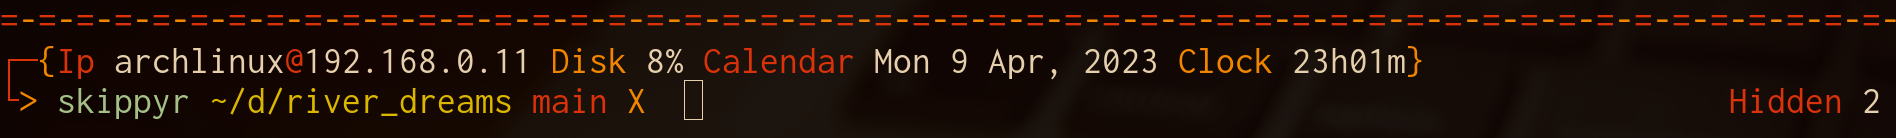
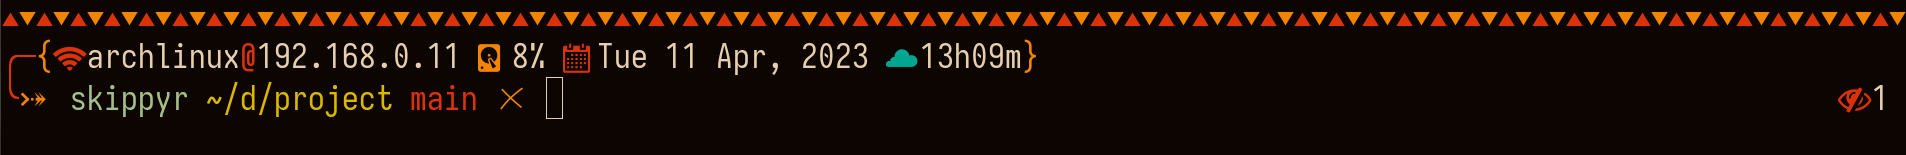
docs: update preview

diff --git a/README.md b/README.md
@@ -2,18 +2,24 @@
 
 ## Introduction
 
-River Dreams is a fast multiline ZSH theme written mostly in C, specially designed for programmers and hackers.
+River Dreams is a fast multi line ZSH theme written mostly in C, specially designed for programmers and hackers.
 
 ![](images/image_0.png)
 ![](images/image_1.png)
+![](images/image_2.png)
+![](images/image_3.png)
+![](images/image_4.png)
 
-The philosophy behind River Dreams is to create a confortable and professional environment for people that want to spend most of their time in the terminal, by grouping most of the information that you would normally find like in a system's bar in it.
 
-Like this, it reduces your need of a graphical environment and becomes a great addition for when you are using a window manager or cannot have access to your graphical environment, like when doing a maintanence.
+> In the images, River Dreams was used on the [Kitty](https://github.com/kovidgoyal/kitty) terminal with the [Flamerial](https://github.com/skippyr/flamerial) color schemes and [Iosevka](https://github.com/be5invis/Iosevka) ([stylistic set `ss08`](https://github.com/be5invis/Iosevka/blob/main/doc/stylistic-sets.md)) font. Noto Fonts and Symbols Nerd Font were used as fallback fonts.
+
+The philosophy behind River Dreams is to create a comfortable and professional environment for people that want to spend most of their time in the terminal, by grouping most of the information that you would normally find in a system's bar in it.
+
+Like this, it reduces your need of a graphical environment and becomes a great addition for when you are using a window manager or cannot have access to your graphical environment, like when doing a maintenance.
 
 In your prompt, you will find:
 
-+ your local ipv4 address and your host name in the network.
++ your local IPv4 address and your host name in the network.
 + the total disk usage percentage.
 + the current week day abbreviated, day of month, month abbreviated and year.
 + the current hours and minutes in 24h format.
@@ -38,7 +44,9 @@ This section will teach everything you need to know to install River Dreams.
 + Install these dependencies:
 	+ `ZSH`. This is the shell this theme applies on.
 	+ `gcc` and standard C libraries. These are the compiler and libraries needed to compile the source codes. They will be probably already installed in your system.
-	+ `Noto Sans` and a font patched by `Nerd Fonts`. Those fonts provides the pretty symbols that are shown in the prompt. If you do want to install them, you can prefer to use River Dreams's fallback text.
+	+ [`Noto Sans`](https://fonts.google.com/noto/specimen/Noto+Sans) and a font patched by [`Nerd Fonts`](https://github.com/ryanoasis/nerd-fonts). Those fonts provides the pretty symbols that are shown in the prompt. If you do want to install them, you can prefer to use River Dreams's fallback text. Normally, Noto Sans comes preinstalled in most systems.
+
+	Most dependencies can be installed through package managers. If you are using Linux, refer to your distributions's package manager. If you are using MacOS, refer to [`HomeBrew`](https://brew.sh). Other dependencies can be installed from their specific websites. Hyperlinks are available in the topics above.
 + Download this repository to a directory in your machine. If you have `git` installed, you can use it in the following command:
 
 	```bash
@@ -63,7 +71,7 @@ River Dreams is prepared to automatically compile the source codes once you sour
 
 Without coding, River Dreams is customizable through the use of environment variables. When defining boolean values, use C standard: `0` means false and `1` means true.
 
-Set the environment variable `RIVER_DREAMS_USE_FALLBACK_TEXT` to enable or disable the use of fallback text. If you do not set it, River Dreams will automatically set it based on your terminal capacity of showing colors: if your terminal can only render the 4-bits color palette (ansi values from `0` to `15`), it will set it with value `1`, and `0` if not. As there is no way to determinate precisely if your terminal can render pretty symbols, this is the best approach found to automatically set fallback text.
+Set the environment variable `RIVER_DREAMS_USE_FALLBACK_TEXT` to enable or disable the use of fallback text. If you do not set it, River Dreams will automatically set it based on your terminal capability of showing colors: if your terminal can only render the 4-bits color palette (ANSI values from `0` to `15`), it will set it with value `1`, and `0` if not. As there is no way to determinate precisely if your terminal can render pretty symbols, this is the best approach found to automatically set fallback text.
 
 Further more, you can change what River Dreams does and how it looks by customizing the source codes itself.
 
@@ -71,7 +79,7 @@ Further more, you can change what River Dreams does and how it looks by customiz
 
 If you had an issue, has a question or has an idea to improve River Dreams, feel free to use the Issues tab on its page on GitHub, so I can help you and see what you come with.
 
-### Contributing
+## Contributing
 
 Contributions are welcome to fix issues and to answer questions reported in the Issues tab.
 
@@ -82,3 +90,4 @@ If you want to implement your own version of River Dreams, I would highly apprec
 River Dreams is released under the MIT License. You can refer to the license as the `LICENSE` in the root directory of this repository.
 
 Copyright (c) 2023, Sherman Rofeman. MIT License.
+
